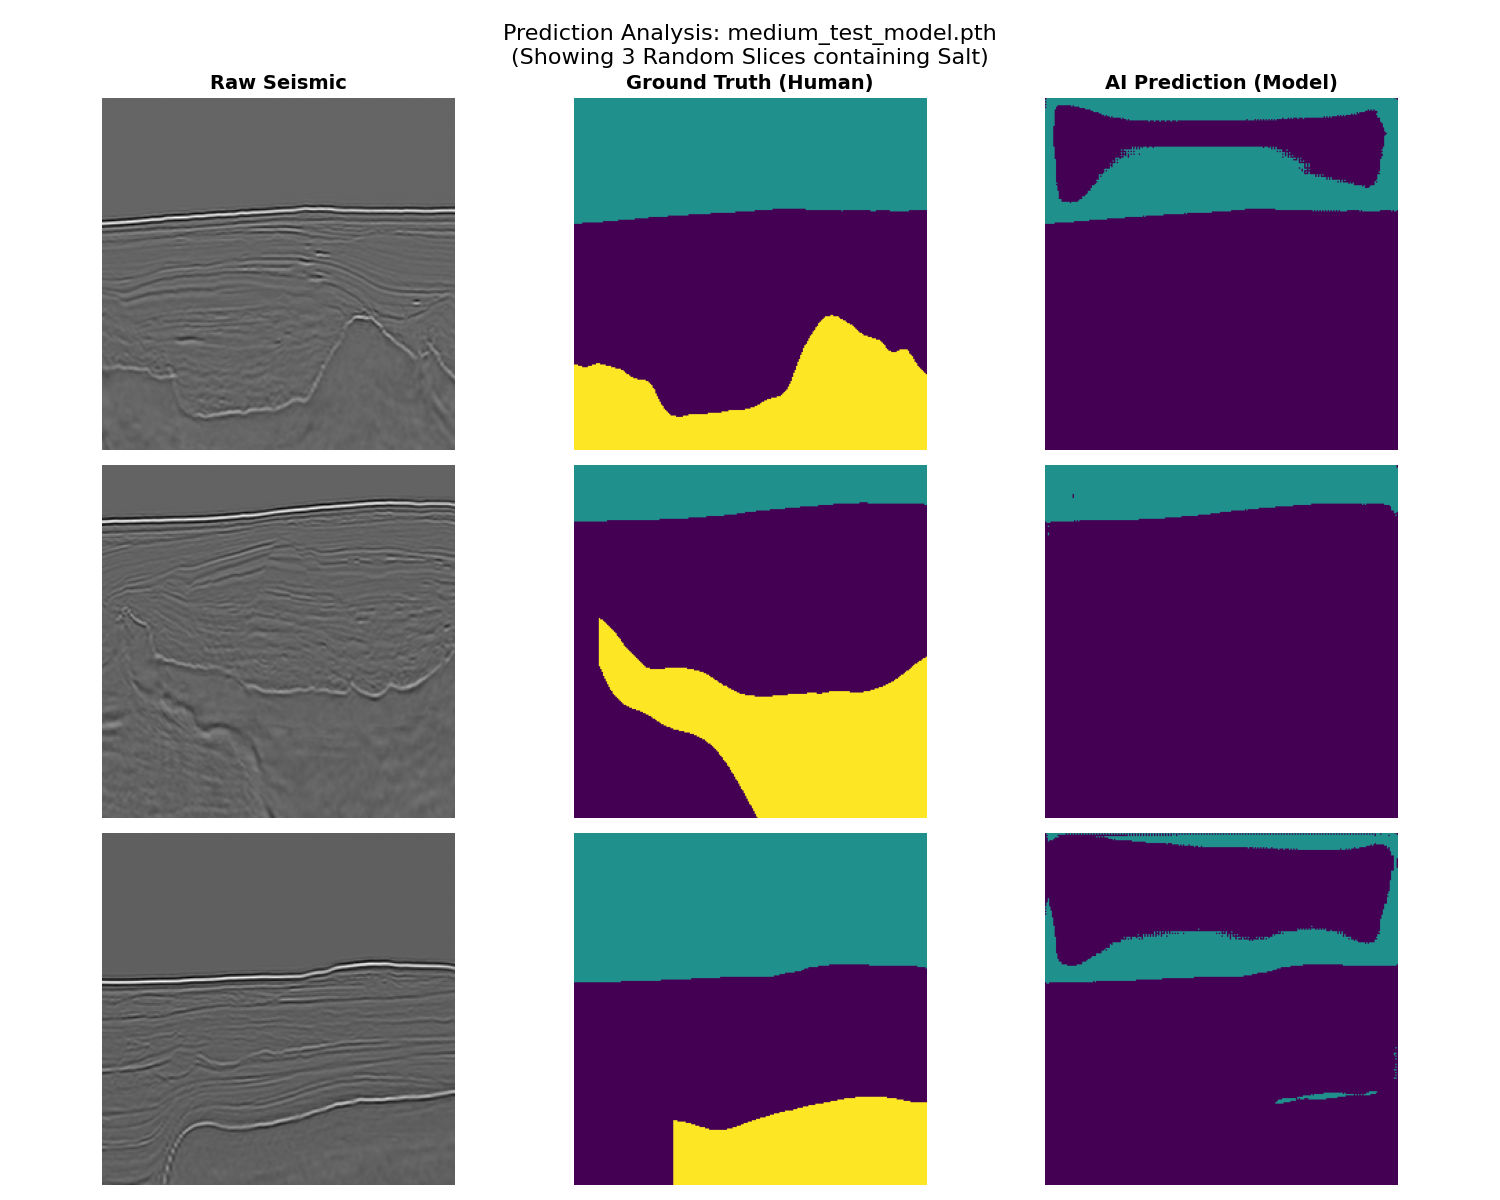
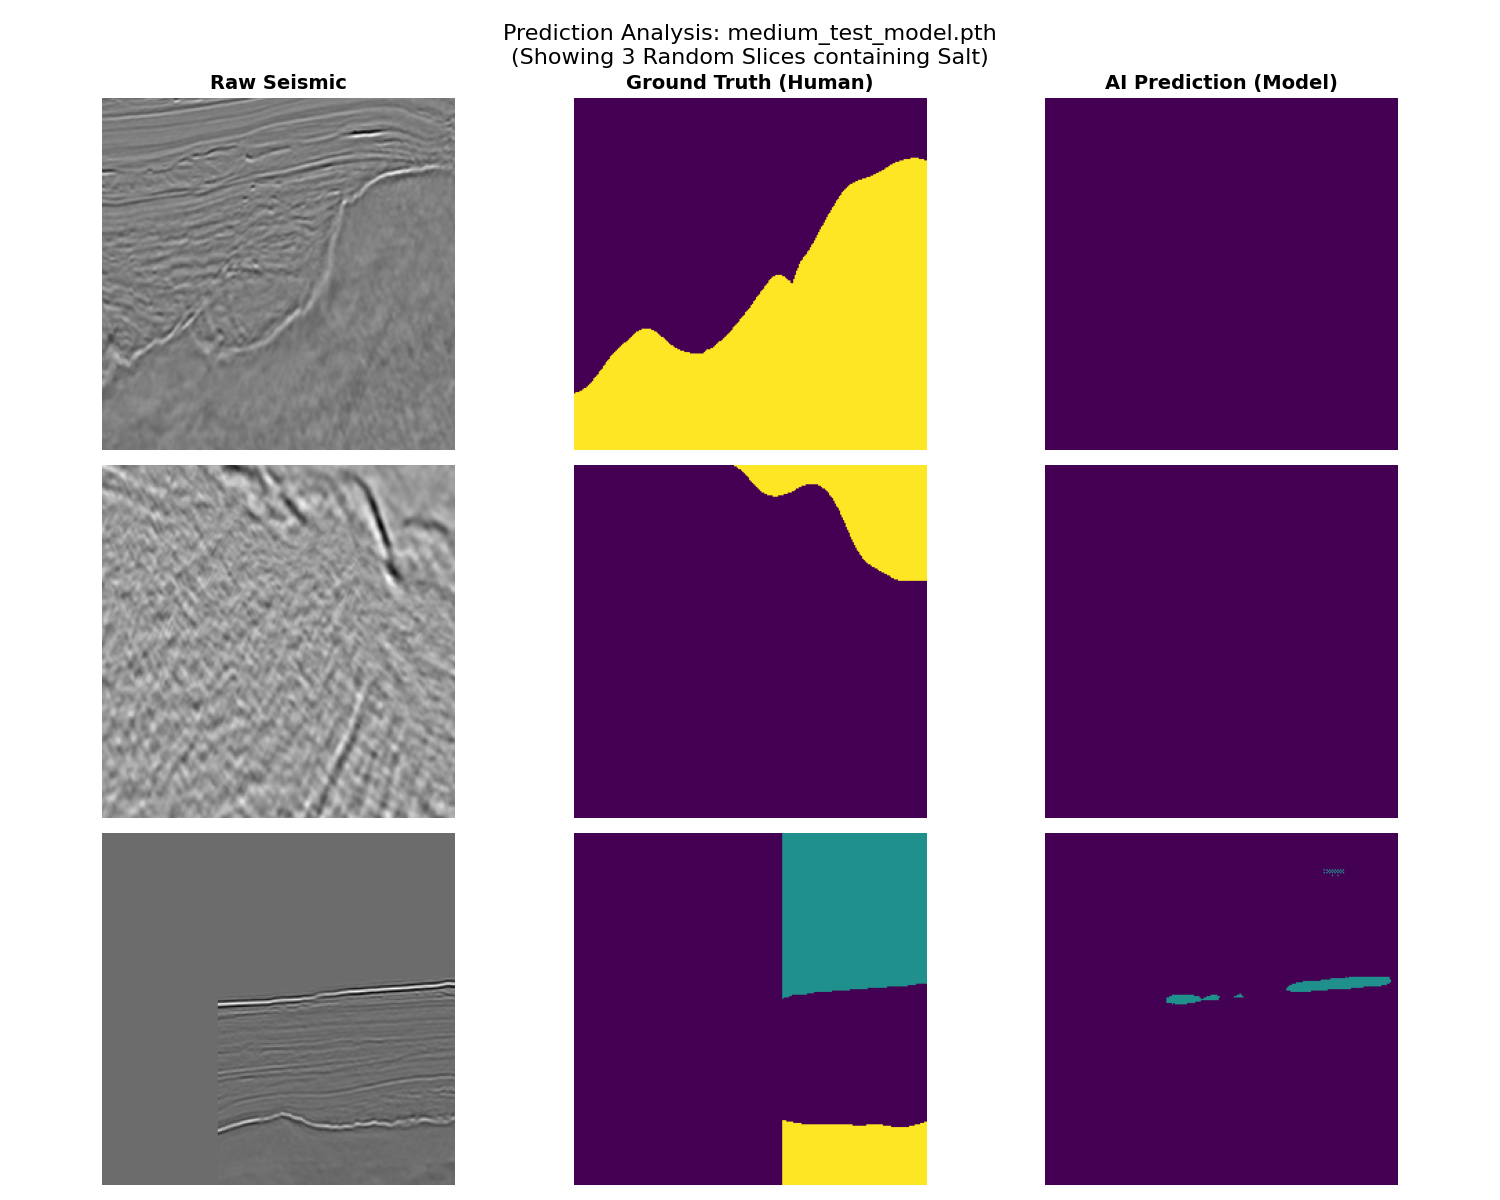
smarter training

diff --git a/src/train_mediumv2.py b/src/train_mediumv2.py
@@ -1,0 +1,144 @@
+import os
+import torch
+import torch.nn as nn
+import torch.optim as optim
+from torch.utils.data import DataLoader, Subset
+from tqdm import tqdm
+import random
+import numpy as np
+
+# Import your custom scripts
+from data_loader import SaltDataset
+from model import UNet
+
+# ================= MEDIUM CONFIGURATION =================
+BATCH_SIZE = 8          
+LEARNING_RATE = 0.0005  
+EPOCHS = 7              
+SAMPLE_LIMIT = 800      
+NUM_CLASSES = 3         # 0=Background, 1=Salt, 2=Other
+
+BASE_DIR = os.path.dirname(os.path.dirname(os.path.abspath(__file__)))
+RAW_PATH = os.path.join(BASE_DIR, 'data', 'raw', 'CroppedData.segy')
+LABEL_PATH = os.path.join(BASE_DIR, 'data', 'raw', 'SaltMask.segy')
+MASK_PATH = os.path.join(BASE_DIR, 'data', 'processed', 'survey_mask.npy')
+MODEL_SAVE_DIR = os.path.join(BASE_DIR, 'models')
+# ========================================================
+
+def compute_class_weights(dataset, device):
+    """
+    Scans the dataset subset to count pixels per class.
+    Returns a weight tensor to balance the loss.
+    """
+    print("\n⚖  Calculating Class Weights (scanning dataset)...")
+    
+    # Initialize counters for classes 0, 1, 2
+    class_counts = torch.zeros(NUM_CLASSES)
+    
+    # We use a small loader to speed up the scan
+    temp_loader = DataLoader(dataset, batch_size=8, shuffle=False)
+    
+    for _, labels in tqdm(temp_loader, desc="Scanning pixels"):
+        # Flatten labels to count occurrences
+        flattened = labels.view(-1).long()
+        counts = torch.bincount(flattened, minlength=NUM_CLASSES)
+        class_counts += counts
+
+    total_pixels = class_counts.sum()
+    
+    # AVOID DIVISION BY ZERO: Add 1 to any count that is 0
+    class_counts = torch.max(class_counts, torch.tensor(1.0))
+
+    # FORMULA: Total / (Num_Classes * Count)
+    # This is the standard "balanced" weight formula from sklearn
+    weights = total_pixels / (NUM_CLASSES * class_counts)
+    
+    print(f"   > Pixel Counts: {class_counts.tolist()}")
+    print(f"   > Calculated Weights: {weights.tolist()}")
+    print(f"   (This means the model is penalized {weights[1]:.2f}x more for missing Salt)")
+    
+    return weights.to(device)
+
+def train_medium():
+    device = torch.device('cpu') 
+    
+    print(f"{'='*40}")
+    print(f"⏳ STARTING MEDIUM TRAINING (Weighted Loss) ⏳")
+    print(f"   - Samples: {SAMPLE_LIMIT}")
+    print(f"   - Epochs:  {EPOCHS}")
+    print(f"{'='*40}")
+
+    # 1. Load Dataset
+    print("Loading Data...")
+    full_dataset = SaltDataset(RAW_PATH, LABEL_PATH, MASK_PATH)
+    
+    all_indices = list(range(len(full_dataset)))
+    random_indices = random.sample(all_indices, SAMPLE_LIMIT)
+    medium_dataset = Subset(full_dataset, random_indices)
+    
+    # 2. Calculate Weights BEFORE creating the main loader
+    # This ensures we penalize the model correctly based on THIS specific subset
+    class_weights = compute_class_weights(medium_dataset, device)
+
+    loader = DataLoader(medium_dataset, batch_size=BATCH_SIZE, shuffle=True)
+
+    # 3. Setup Model with Weighted Loss
+    model = UNet(n_channels=1, n_classes=NUM_CLASSES).to(device)
+    
+    # PASS WEIGHTS HERE to fix the imbalance
+    criterion = nn.CrossEntropyLoss(weight=class_weights)
+    
+    optimizer = optim.Adam(model.parameters(), lr=LEARNING_RATE)
+    os.makedirs(MODEL_SAVE_DIR, exist_ok=True)
+
+    # 4. Training Loop
+    for epoch in range(EPOCHS):
+        print(f"\nEpoch {epoch+1}/{EPOCHS}")
+        model.train()
+        
+        loop = tqdm(loader, desc=f"Epoch {epoch+1}")
+        epoch_loss = 0
+        
+        total_salt_pixels_predicted = 0
+        
+        for images, labels in loop:
+            images = images.to(device)
+            labels = labels.to(device)
+
+            # Forward
+            outputs = model(images)
+            loss = criterion(outputs, labels)
+
+            # Backward
+            optimizer.zero_grad()
+            loss.backward()
+            optimizer.step()
+
+            epoch_loss += loss.item()
+            
+            # --- MONITORING ---
+            # Check if the model is predicting ANY salt (Class 1)
+            # dim=1 is the channel dimension for classes
+            predictions = torch.argmax(outputs, dim=1)
+            salt_pred_count = (predictions == 1).sum().item()
+            total_salt_pixels_predicted += salt_pred_count
+            
+            loop.set_postfix(loss=loss.item(), salt_preds=salt_pred_count)
+
+        avg_loss = epoch_loss / len(loader)
+        print(f"   > Avg Loss: {avg_loss:.4f}")
+        print(f"   > Total Salt Pixels Predicted this Epoch: {total_salt_pixels_predicted}")
+        
+        if total_salt_pixels_predicted == 0:
+             print("   ⚠ WARNING: Model is still predicting only background.")
+
+    # 5. Save Results
+    save_path = os.path.join(MODEL_SAVE_DIR, 'medium_weighted_model.pth')
+    torch.save(model.state_dict(), save_path)
+    
+    print(f"\n{'='*40}")
+    print(f"✅ MEDIUM TRAINING COMPLETE")
+    print(f"Model saved to: {save_path}")
+
+if __name__ == "__main__":
+    train_medium()

diff --git a/src/train_medium.py b/src/train_medium.py
@@ -13,9 +13,9 @@ from model import UNet
 # ================= MEDIUM CONFIGURATION =================
 # Tuned for ~45-60 minutes on CPU
 BATCH_SIZE = 8          
-LEARNING_RATE = 0.0001  
-EPOCHS = 5              # Enough loops to learn basic shapes
-SAMPLE_LIMIT = 400      # 400 random patches (instead of 5000+)
+LEARNING_RATE = 0.0005  
+EPOCHS = 7              # Enough loops to learn basic shapes
+SAMPLE_LIMIT = 800      # 800 random patches (instead of 5000+)
 
 BASE_DIR = os.path.dirname(os.path.dirname(os.path.abspath(__file__)))
 RAW_PATH = os.path.join(BASE_DIR, 'data', 'raw', 'CroppedData.segy')
@@ -39,7 +39,7 @@ def train_medium():
     full_dataset = SaltDataset(RAW_PATH, LABEL_PATH, MASK_PATH)
     
     # --- SUBSET STRATEGY ---
-    # Pick 400 random indices so we get a variety of salt and no-salt
+    # Pick 800 random indices so we get a variety of salt and no-salt
     # We sort them just to be tidy, though it doesn't matter for training
     all_indices = list(range(len(full_dataset)))
     random_indices = random.sample(all_indices, SAMPLE_LIMIT)
